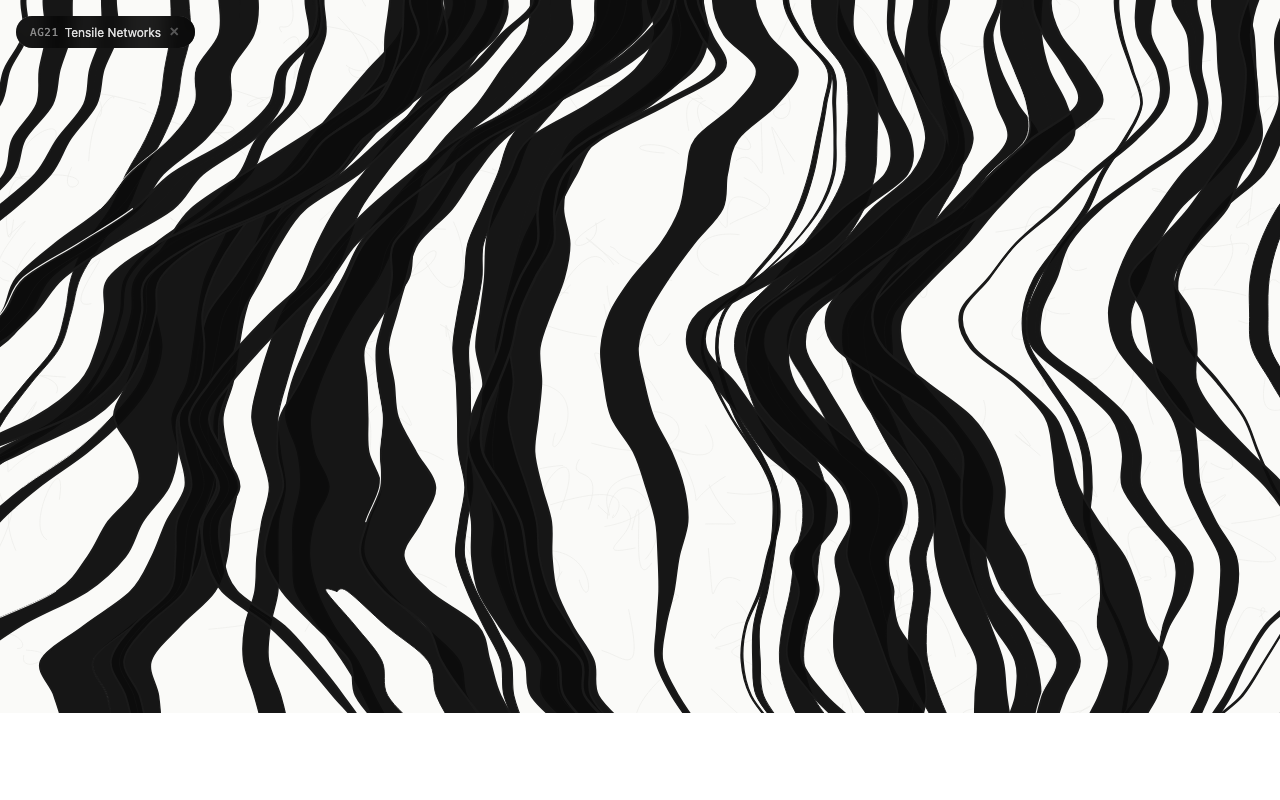
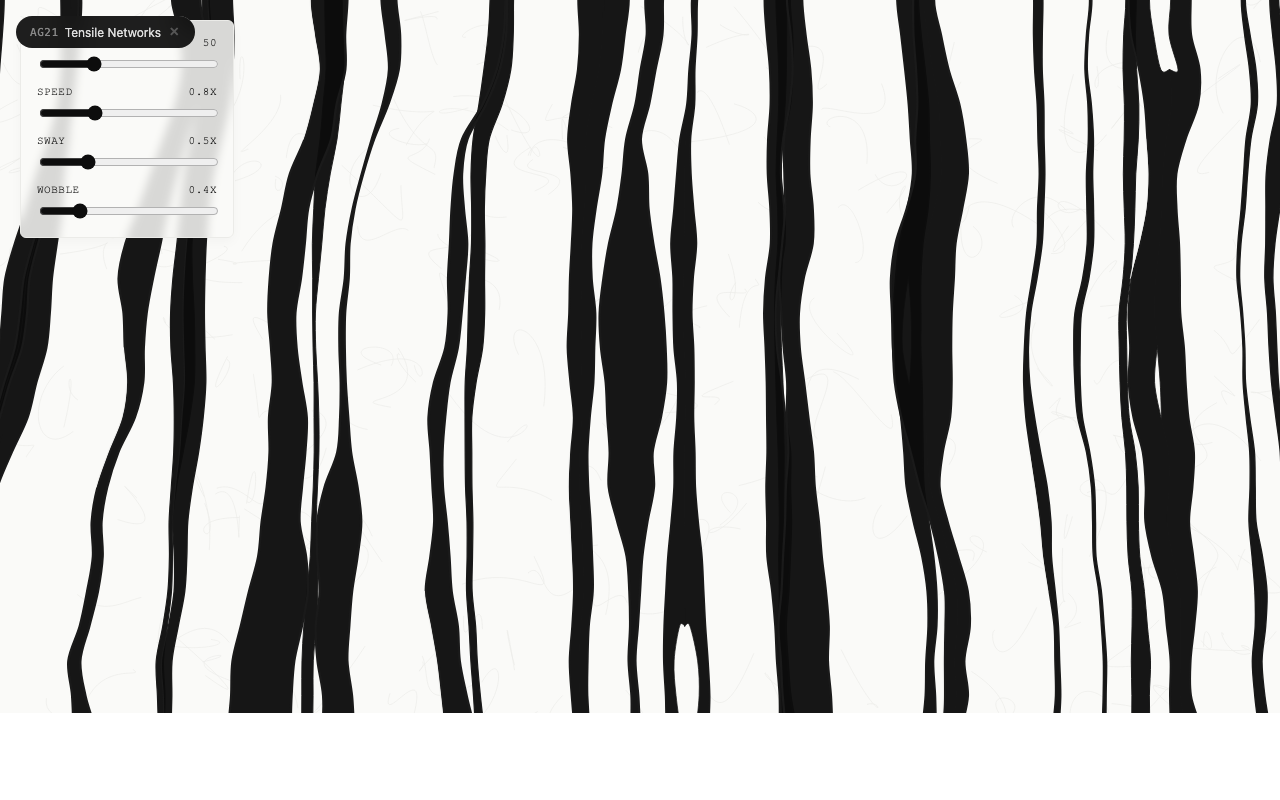
artwork: refine AG21: Tensile Networks

diff --git a/projects/2026-03-16-tensile-networks/index.html b/projects/2026-03-16-tensile-networks/index.html
@@ -4,8 +4,52 @@
   <meta charset="UTF-8">
   <title>Tensile Networks</title>
   <style>
-    body, html { margin: 0; padding: 0; overflow: hidden; background: #fafaf8; }
+    body, html { 
+      margin: 0; 
+      padding: 0; 
+      overflow: hidden; 
+      background: #fafaf8; 
+      font-family: 'Courier New', Courier, monospace;
+    }
     canvas { display: block; }
+    
+    #ui-panel {
+      position: absolute;
+      top: 20px;
+      left: 20px;
+      background: rgba(250, 250, 248, 0.85);
+      border: 1px solid #ebebe8;
+      padding: 16px;
+      border-radius: 6px;
+      color: #0d0d0d;
+      font-size: 11px;
+      backdrop-filter: blur(4px);
+      box-shadow: 0 4px 12px rgba(0,0,0,0.03);
+      display: flex;
+      flex-direction: column;
+      gap: 12px;
+      width: 180px;
+      z-index: 10;
+    }
+
+    .slider-group {
+      display: flex;
+      flex-direction: column;
+      gap: 5px;
+    }
+
+    .slider-header {
+      display: flex;
+      justify-content: space-between;
+      text-transform: uppercase;
+      letter-spacing: 0.5px;
+    }
+
+    input[type="range"] {
+      width: 100%;
+      accent-color: #0d0d0d;
+      cursor: pointer;
+    }
   </style>
   <script src="https://cdnjs.cloudflare.com/ajax/libs/p5.js/1.9.0/p5.min.js"></script>
 </head>
@@ -27,6 +71,41 @@
 <div class="ap-body"><p>An animated field of interconnected organic filaments that bulge, constrict, and pulse like cellular membranes under tension. The piece translates the moodboard's flowing vertical line networks into a living system where curves are never static — each strand is a chain of vertices displaced by layered noise fields, creating wobbly, irregular forms that breathe and undulate. The visual logic mirrors biological systems under microscopic observation: tension, elasticity, and the constant renegotiation of space between neighboring forms.</p></div>
 </div>
 
+
+<div id="ui-panel">
+  <div class="slider-group">
+    <div class="slider-header">
+      <span>Density</span>
+      <span id="densityVal"></span>
+    </div>
+    <input type="range" id="densitySlider" min="10" max="150" value="50">
+  </div>
+  
+  <div class="slider-group">
+    <div class="slider-header">
+      <span>Speed</span>
+      <span id="speedVal"></span>
+    </div>
+    <input type="range" id="speedSlider" min="0.1" max="2.5" step="0.1" value="0.8">
+  </div>
+  
+  <div class="slider-group">
+    <div class="slider-header">
+      <span>Sway</span>
+      <span id="swayVal"></span>
+    </div>
+    <input type="range" id="swaySlider" min="0.0" max="2.0" step="0.1" value="0.5">
+  </div>
+  
+  <div class="slider-group">
+    <div class="slider-header">
+      <span>Wobble</span>
+      <span id="wobbleVal"></span>
+    </div>
+    <input type="range" id="wobbleSlider" min="0.0" max="2.0" step="0.1" value="0.4">
+  </div>
+</div>
+
 <script>
 const palette = {
   bg: '#fafaf8', 
@@ -39,22 +118,40 @@ const palette = {
 let filaments = [];
 let bgLines = [];
 
+// UI and state variables
+let currentDensity;
+let accumTime = 0;
+let ui = {};
+
 function setup() {
   createCanvas(windowWidth, windowHeight);
   noiseSeed(8765);
-  initSystem();
+  
+  // Cache DOM elements for performance
+  ui.density = document.getElementById('densitySlider');
+  ui.speed = document.getElementById('speedSlider');
+  ui.sway = document.getElementById('swaySlider');
+  ui.wobble = document.getElementById('wobbleSlider');
+  
+  ui.densityVal = document.getElementById('densityVal');
+  ui.speedVal = document.getElementById('speedVal');
+  ui.swayVal = document.getElementById('swayVal');
+  ui.wobbleVal = document.getElementById('wobbleVal');
+
+  currentDensity = parseInt(ui.density.value);
+  initSystem(currentDensity);
 }
 
 function windowResized() {
   resizeCanvas(windowWidth, windowHeight);
-  initSystem();
+  initSystem(currentDensity);
 }
 
-function initSystem() {
+function initSystem(density) {
   filaments = [];
   bgLines = [];
   
-  // Create subtle floating background curves to give the canvas texture
+  // Create subtle floating background curves
   for(let i=0; i<250; i++) {
     bgLines.push({
       x: random(width), y: random(height),
@@ -62,20 +159,17 @@ function initSystem() {
       cx2: random(-60, 60), cy2: random(-60, 60),
       x2: random(-60, 60), y2: random(-60, 60),
       rot: random(TWO_PI),
-      speed: random(0.0001, 0.0003) * (random() > 0.5 ? 1 : -1)
+      speed: random(0.00005, 0.00015) * (random() > 0.5 ? 1 : -1)
     });
   }
   
-  // Distribute paired filaments across a wider span to accommodate massive flow field displacement
-  let density = map(width, 400, 2000, 30, 100);
-  let spread = 800; // Substantial buffer to prevent edges from becoming empty
+  let spread = 800; 
   for(let i=0; i<density; i++) {
     let x = map(i, 0, density, -spread, width + spread) + random(-40, 40);
-    let z = random(0.5, 1.4); // Z-index for parallax and thickness
+    let z = random(0.5, 1.4); 
     filaments.push(new Filament(x, z));
   }
   
-  // Sort from background to foreground to ensure correct overlap
   filaments.sort((a, b) => a.z - b.z);
 }
 
@@ -85,24 +179,19 @@ class Filament {
     this.z = z;
     this.seed = random(10000);
     
-    // Calculate points extending slightly past the vertical bounds
     this.ptsCount = ceil(height / 35) + 4;
     this.spacing = height / (this.ptsCount - 4);
     
-    // Organic membrane properties
-    this.baseWidth = random(8, 35) * z;
+    this.baseWidth = random(8, 30) * z;
     this.hasVein = random() > 0.5;
     
-    // Individual soft easing curves to vary pulsing/bulging behavior
     const easeTypes = ['sine', 'cubic', 'quad', 'power'];
     this.easeType = easeTypes[floor(random(easeTypes.length))];
-    this.easePower = random(1.5, 3.5); // only used if type is 'power'
+    this.easePower = random(1.5, 3.5); 
     
-    // Threshold determining when the line separates to form a "white shaped gap"
-    this.gapThreshold = random(0.78, 0.92);
+    this.gapThreshold = random(0.8, 0.94);
   }
   
-  // Distinct softening functions for organic transitions
   ease(x, type, power) {
     x = constrain(x, 0, 1);
     switch(type) {
@@ -114,13 +203,12 @@ class Filament {
     }
   }
   
-  draw(t) {
+  draw(t, swayMult, wobbleMult) {
     let leftPts = [];
     let rightPts = [];
     let centerPts = [];
     let gapData = [];
     
-    // 2D Noise field parameters that govern the overall rhythm of the composition
     const fieldScaleX = 0.0008;
     const fieldScaleY = 0.0015;
     const timeScale = 0.00015;
@@ -128,8 +216,6 @@ class Filament {
     for(let i=0; i<this.ptsCount; i++) {
       let y = (i - 2) * this.spacing;
       
-      // Sample the shared 2D Perlin noise field based on exact spatial coordinates
-      // This creates the unified, synchronized flow across all filaments
       let nX = this.baseX * fieldScaleX;
       let nY = y * fieldScaleY;
       let nT = t * timeScale;
@@ -137,44 +223,39 @@ class Filament {
       let field1 = noise(nX, nY, nT) - 0.5;
       let field2 = noise(nX * 2.5 + 100, nY * 2.5 + 100, nT * 1.5) - 0.5;
       
-      // The horizontal curvature is deeply governed by the global fields
-      let sway = (field1 * 1200 + field2 * 300) * this.z;
+      // Significantly scaled down base sway values for subtler motion
+      let sway = (field1 * 400 + field2 * 120) * this.z * swayMult;
       
-      // Minute, individual noise to retain cellular/organic independence within the field
-      let wobble = (noise(this.seed, y * 0.004, t * 0.0003) - 0.5) * 40 * this.z;
+      // Scaled down micro wobble
+      let wobble = (noise(this.seed, y * 0.004, t * 0.0003) - 0.5) * 15 * this.z * wobbleMult;
       
       let cx = this.baseX + sway + wobble;
       
-      // Calculate individual raw bulging noise (applied individually per filament)
       let ny = y * 0.0015;
       let nt = t * 0.0003;
       let rawNoise = noise(this.seed + 500, ny * 2, nt * 1.8);
       let n = map(rawNoise, 0.2, 0.8, 0, 1, true); 
       
-      // Apply the filament's unique easing curve for thickness
       let widthEased = this.ease(n, this.easeType, this.easePower);
-      let dynamicWidth = map(widthEased, 0, 1, 2, this.baseWidth * 2.8);
+      let dynamicWidth = map(widthEased, 0, 1, 2, this.baseWidth * 2.5);
       
-      // Calculate gap appearance if threshold is exceeded
       let gapAmt = map(widthEased, this.gapThreshold, 1.0, 0, 1, true);
-      gapAmt = -(cos(PI * gapAmt) - 1) / 2; // Smooth sine ease for opening the gap
+      gapAmt = -(cos(PI * gapAmt) - 1) / 2; 
       
       let gapWidth = 0;
       if (gapAmt > 0) {
-        gapWidth = dynamicWidth * 0.6 * gapAmt; // Gap absorbs up to 60% of width
+        gapWidth = dynamicWidth * 0.55 * gapAmt; 
       }
       gapData.push(gapWidth);
       
-      // Add independent micro-wiggle to edges for organic tension
-      let leftWiggle = (noise(this.seed + 1000, ny * 4, nt * 2.5) - 0.5) * 12 * this.z;
-      let rightWiggle = (noise(this.seed + 2000, ny * 4, nt * 2.5) - 0.5) * 12 * this.z;
+      let leftWiggle = (noise(this.seed + 1000, ny * 4, nt * 2.5) - 0.5) * 8 * this.z * wobbleMult;
+      let rightWiggle = (noise(this.seed + 2000, ny * 4, nt * 2.5) - 0.5) * 8 * this.z * wobbleMult;
       
       leftPts.push({x: cx - dynamicWidth/2 + leftWiggle, y: y});
       rightPts.push({x: cx + dynamicWidth/2 + rightWiggle, y: y});
       centerPts.push({x: cx, y: y});
     }
     
-    // Group consecutive points where a gap exists
     let currentGapGroup = [];
     let gapGroups = [];
     for(let i=0; i<this.ptsCount; i++) {
@@ -187,7 +268,7 @@ class Filament {
     }
     if (currentGapGroup.length >= 3) gapGroups.push(currentGapGroup);
     
-    // 1. Fill the solid color membrane body
+    // Solid color membrane body
     let fillCol = color(palette.main);
     fillCol.setAlpha(245);
     fill(fillCol);
@@ -203,26 +284,24 @@ class Filament {
     curveVertex(rightPts[0].x, rightPts[0].y);
     endShape(CLOSE);
     
-    // 2. Draw the outlining curves defining the network strands
+    // Outlining curves
     noFill();
     stroke(palette.sec);
     strokeWeight(1.8 * this.z);
     
-    // Left edge
     beginShape();
     curveVertex(leftPts[0].x, leftPts[0].y);
     for(let pt of leftPts) curveVertex(pt.x, pt.y);
     curveVertex(leftPts[leftPts.length-1].x, leftPts[leftPts.length-1].y);
     endShape();
     
-    // Right edge
     beginShape();
     curveVertex(rightPts[0].x, rightPts[0].y);
     for(let pt of rightPts) curveVertex(pt.x, pt.y);
     curveVertex(rightPts[rightPts.length-1].x, rightPts[rightPts.length-1].y);
     endShape();
 
-    // 3. Central microscopic vein
+    // Central microscopic vein
     if (this.hasVein && this.baseWidth > 15) {
       let veinCol = color(palette.sec);
       veinCol.setAlpha(120);
@@ -235,16 +314,15 @@ class Filament {
       endShape();
     }
     
-    // 4. White shaped gaps (Tears / Cellular Vacuoles)
+    // White shaped gaps (Vacuoles)
     if (gapGroups.length > 0) {
       for (let indices of gapGroups) {
-        fill(palette.bg); // Match background canvas color to simulate a hole
-        stroke(palette.sec); // Very faint border for organic depth
+        fill(palette.bg); 
+        stroke(palette.sec); 
         strokeWeight(0.8 * this.z);
         
         beginShape();
         let firstIdx = indices[0];
-        // Duplicate vertices to enforce sharp pinching at the extremes of the gap
         curveVertex(centerPts[firstIdx].x, centerPts[firstIdx].y);
         curveVertex(centerPts[firstIdx].x, centerPts[firstIdx].y);
         
@@ -268,7 +346,7 @@ class Filament {
       }
     }
     
-    // 5. Accent highlight on moving segments
+    // Accent highlight on moving segments
     if (this.z > 0.9 && noise(this.seed) > 0.4) {
       let phase = (t * 0.00015 + this.seed) % 1.0;
       let startIdx = floor(phase * (this.ptsCount - 6)) + 1;
@@ -289,8 +367,27 @@ class Filament {
 }
 
 function draw() {
+  // Update UI text displays
+  ui.densityVal.innerText = ui.density.value;
+  ui.speedVal.innerText = parseFloat(ui.speed.value).toFixed(1) + 'x';
+  ui.swayVal.innerText = parseFloat(ui.sway.value).toFixed(1) + 'x';
+  ui.wobbleVal.innerText = parseFloat(ui.wobble.value).toFixed(1) + 'x';
+
+  // Check if density changed, requiring a rebuild
+  let newDensity = parseInt(ui.density.value);
+  if (newDensity !== currentDensity) {
+    currentDensity = newDensity;
+    initSystem(currentDensity);
+  }
+
+  // Accumulate time smoothly based on speed multiplier to prevent jitter
+  let speedMult = parseFloat(ui.speed.value);
+  accumTime += deltaTime * speedMult;
+  
+  let swayMult = parseFloat(ui.sway.value);
+  let wobbleMult = parseFloat(ui.wobble.value);
+
   background(palette.bg);
-  let t = millis();
   
   // Render ambient background field
   stroke(palette.bgTex);
@@ -299,14 +396,14 @@ function draw() {
   for(let l of bgLines) {
     push();
     translate(l.x, l.y);
-    rotate(l.rot + t * l.speed);
+    rotate(l.rot + accumTime * l.speed);
     bezier(0, 0, l.cx1, l.cy1, l.cx2, l.cy2, l.x2, l.y2);
     pop();
   }
   
-  // Render organic pairings governed by the shared noise field
+  // Render organic pairings governed by the shared noise field and UI modifiers
   for(let f of filaments) {
-    f.draw(t);
+    f.draw(accumTime, swayMult, wobbleMult);
   }
 }
 </script>
